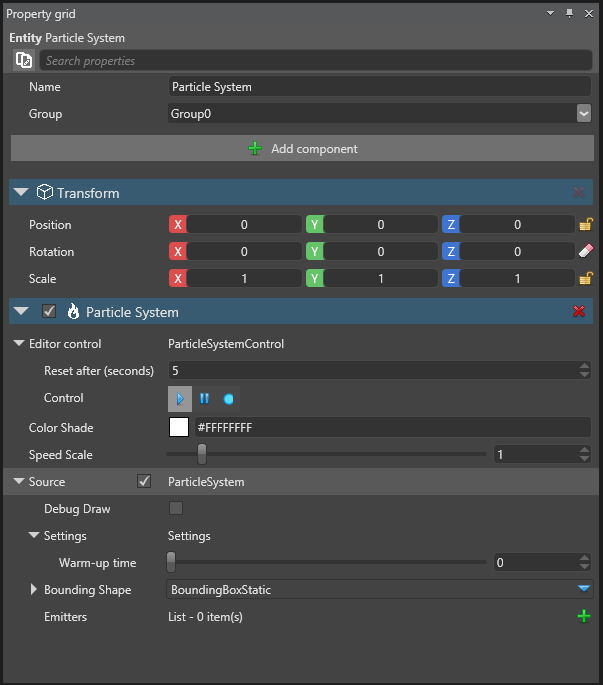
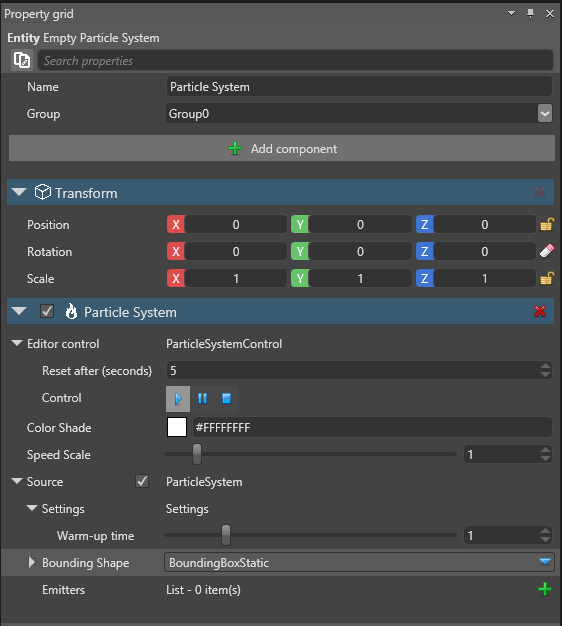
[Particles] Some misleading wording in the documentation fixed.

diff --git a/manual/particles/particles-reference/particles-reference-spawners/index.md b/manual/particles/particles-reference/particles-reference-spawners/index.md
@@ -22,11 +22,9 @@ This spawner emits a fixed number of particles per second while it's active. It 
 |                         |                                                                                                        |
 | Duration                | The duration for which this spawner is actively spawning particles.                                    |
 |                         | After this duration it deactivates if the Loop setting is set to One-shot.                             |
-|                         | It enters the Delay phase if the Loop is set to Looping, or it stays active indefinitely if the        |
-|                         | Loop is set to Looping, no delay.                                                                      |
+|                         | It enters the Delay phase if the Loop is set to Looping, or it stays active indefinitely if the Loop is set to Looping, no delay.       |
 |                         |                                                                                                        |
-| Particles               | The amount of particles this spawner will try to spawn in the emitter per second.                      |
-|                         | The value can also be a real number, like 36.875.                                                      |
+| Particles               | The amount of particles this spawner will try to spawn in the emitter per second. The value can also be a floating value, like 36.875.                       |
 |                         |                                                                                                        |
 
 ## Spawn per frame
@@ -49,7 +47,7 @@ This spawner emits a fixed number of particles every frame regardless of the act
 |                         | Loop is set to Looping, no delay.                                                                      |
 |                         |                                                                                                        |
 | Particles               | The amount of particles this spawner will try to spawn in the emitter every frame.                     |
-|                         | The value can also be a real number, including less than 1, in which case a new particle will be       |
+|                         | The value can also be a floating value, including less than 1, in which case a new particle will be    |
 |                         | spawned every few frames.                                                                              |
 |                         |                                                                                                        |
 | Framerate               | This is purely for estimation purposes only when the engine calculates the maximum number of particles.|

diff --git a/manual/particles/particles-reference/particles-reference-initializers/index.md b/manual/particles/particles-reference/particles-reference-initializers/index.md
@@ -10,18 +10,17 @@ Similarly, initializers which operate on the same field are exclusive and only t
 
 ## Common Properties
 
-There are several properties shared among all initializers:
+There are several properties common for many initializers:
 
 ![images/particles-reference-initializers-1.png](images/particles-reference-initializers-1.png) 
 
 | Property                    | Description                                                                                             |
 |-----------------------------|---------------------------------------------------------------------------------------------------------|
-| Debug Draw                  | A debug wireframe shape will be drawn, if possible, to show the boundaries for this initializer.        |
-|                             | In some cases this feature is ignored, for example in case of a Initial Color initializer.              |
+| Debug Draw                  | A debug wireframe shape will be drawn to show the boundaries for this initializer. This feature only works for the editor and is ignored when you run your game.        |
 |                             |                                                                                                         |
 | Inheritance                 | Any initializer can inherit one or more features from its containing particle system, like location.    |
 |                             | Some initializers like Initial Position use all three of them - position, rotation and scale.           |
-|                             | Some use only one, like the Initial Size, and some ignore all, like the Initial Color.                  |
+|                             | Some use only one, like the Initial Size.                  |
 |                             |                                                                                                         |
 | Offset                      | In addition to inheritance, initializers can have their own local offset of position, rotation and scale|
 |                             |                                                                                                         |

diff --git a/manual/particles/particles-reference/particles-reference-editor/index.md b/manual/particles/particles-reference/particles-reference-editor/index.md
@@ -38,11 +38,13 @@ The editor control provides control for authoring particles which are only used 
 
 ### Source
 
-The source is a reference to the low-level particle system, which is your data. On the root level it has several properties:
+Contrary to the exposed values, the source is the low-level implementation of the particle effect itself. It is reserved for the author of the effect and not the user.
+
+*Note! The source of the particle effect is currently in-lined in the component but will potentially move to dedicated asset in the future.*
 
 #### Warm-up time
 
-When you first play the effect it will appear already running if you set this value to greater than 0.
+When you first play the particle effect it will appear already running if you set this value to greater than 0. The units are in seconds, so if you set 1 as warm-up time the particle effect will appear as if it has already been active for 1 second.
 
 #### Bounding Shape
 
